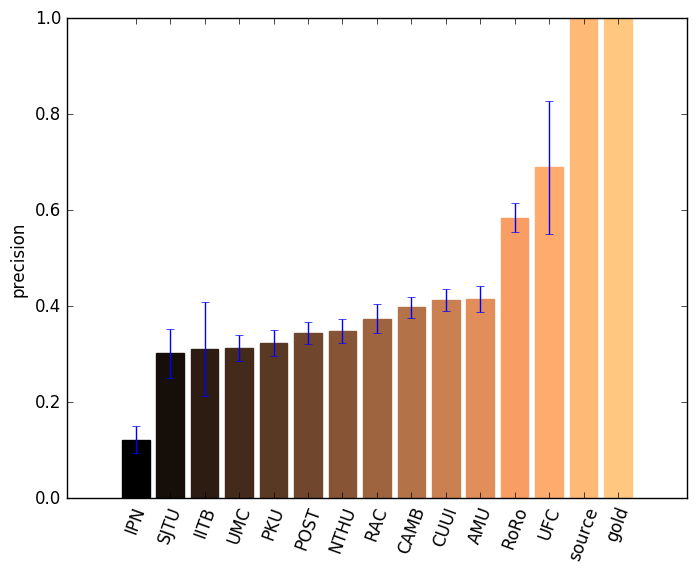
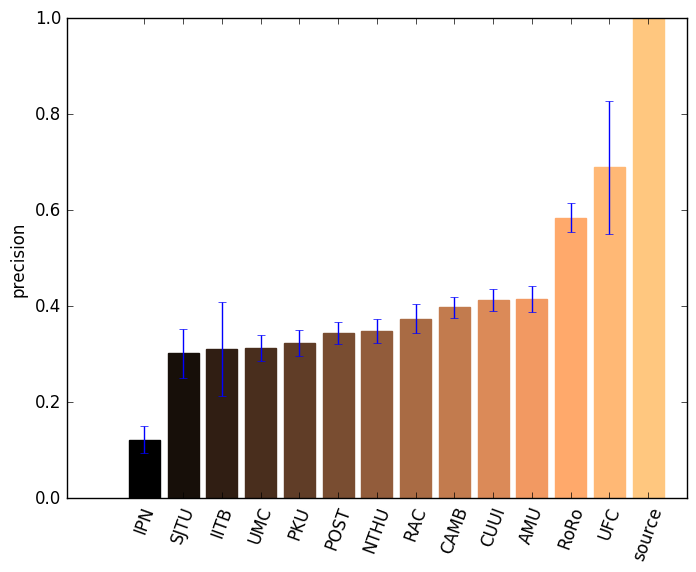
small graph refinements

Changed region(s): [[0.1509, 0.0297, 0.9655, 0.9808]]

diff --git a/annalyze_crowdsourcing.py b/annalyze_crowdsourcing.py
@@ -74,10 +74,10 @@ def main():
 	save_correction = False
 	show_coverage = False
 	save_coverage = False
-	show_dists = False
-	save_dists = False
-	show_significance = True
-	save_significance = True
+	show_dists = True
+	save_dists = True
+	show_significance = False
+	save_significance = False
 	# compare_correction_distributions(db, EXACT_COMP, show=show_correction, save=save_correction)
 	# db[INDEXES_CHANGED_COL] = find_changed_indexes(learner_sentences, db.loc[:, LEARNER_SENTENCES_COL], db.loc[:, CORRECTED_SENTENCES_COL])
 	# compare_correction_distributions(db, INDEX_COMP, index=INDEXES_CHANGED_COL, show=show_correction, save=save_correction)
@@ -634,6 +634,9 @@ def plot_significance(show=True, save=True):
 	names = [filename if filename != ACL2016RozovskayaRothOutput_file else "RoRo" for filename in files]
 	results = [[[1,0,0],[1,0,0]]] + list(results) + [[[1,1,1],[1,1,1]]]
 	names = [learner_file] + names + [gold_file]
+	#no gold standard
+	results = results[:-1]
+	names = names[:-1]
 	plot_sig_bars(results, names, show, save)
 	files = ["perfect_output_for_" + str(m+1) + "_sgss.m2" for m in np.arange(10)]
 	results = parse_sigfiles(files)
@@ -755,6 +758,7 @@ def plot_dists(show=True, save=True, dists_type=EXACT_COMP):
 				# plt.scatter(x_new, y, color="b")
 				plt.ylabel("log frequency")
 				plt.xlabel("log rank")
+		plt.xlim(xmin=0)
 		print("all pearson correlations:", pearsons)
 		print("mean pearson correlation:", np.mean(pearsons))
 		if save:
